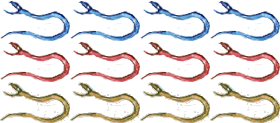
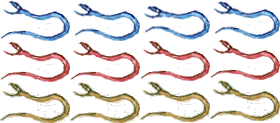
animation!

diff --git a/js/script.js b/js/script.js
@@ -46,14 +46,15 @@ $(document).ready(function(){
 	//offsety*100 will be a different snake
 	
 	//single snake
-	var doublesnake = new $.gameQuery.Animation({ 
-		imageURL: "img/doubles.png",
-		numberOfFrame: 1,
+	var singlesnake = new $.gameQuery.Animation({ 
+		imageURL: "img/singles.png",
+		numberOfFrame: 4,
 		delta: 70,
-		rate: 1,
+		rate: 150,
+		offsety: 0,
 		type: $.gameQuery.ANIMATION_HORIZONTAL
 	});
-	//offsety*70 will be a different snake //do we need to multiply this?
+	//offsety*41 will be a different snake //do we need to multiply this?
 	
 	//exploding snake
 	
@@ -61,11 +62,14 @@ $(document).ready(function(){
 	$.playground().addGroup("ring", {
 		width: PLAYGROUND_WIDTH, height: PLAYGROUND_HEIGHT
 	});
-	$.playground().addSprite("doublesnake", {animation: doublesnake, width: 100, height: 100});
-	$.playground().startGame();
+	$.playground().addSprite("singlesnake", {animation: singlesnake, width: 70, height: 41});
+	
+	
+	
+	$.playground().startGame(function() { });
 	
 	var tiles = new Array();
-	
+	/*
 	for(var i  = 0; i <= SNAKES_IN_RING; i++) {
 		if(i == 0) {
 			//big tail
@@ -97,7 +101,7 @@ $(document).ready(function(){
 		$.playground().startGame(function(){
 			$("#welcomeScreen").fadeTo(1000,0,function(){$(this).remove();});
 		});
-	});
+	});*/
 });
 
 // Function to restart the game:

diff --git a/index.html b/index.html
@@ -67,6 +67,7 @@
   <!-- scripts concatenated and minified via ant build script-->
   <script defer src="js/plugins.js"></script>
   <script defer src="js/constants.js"></script>
+  <script defer src="js/player.js"></script>
   <script defer src="js/ring.js"></script>
   <script defer src="js/script.js"></script>
   <!-- end scripts-->

diff --git a/js/constants.js b/js/constants.js
@@ -8,5 +8,6 @@ var RING_RADIUS = 250;
 var SNAKE_RADIUS = 50;	// 1/2 of graphic size
 
 var STARTING_MOVES = 20;
+var STARTING_MOVES_LEFT = STARTING_MOVES;
 var MIN_COUNT_TO_GET_SPECIAL = 3;
 var MIN_COUNT_TO_GET_EXTRAMOVE = 2;

diff --git a/css/style.css b/css/style.css
@@ -225,7 +225,10 @@ body {
 h1 {
 	font-family: monospace;
 }
-
+#playground {
+	position: relative;
+	border: 1px solid black;
+}
 
 
 
